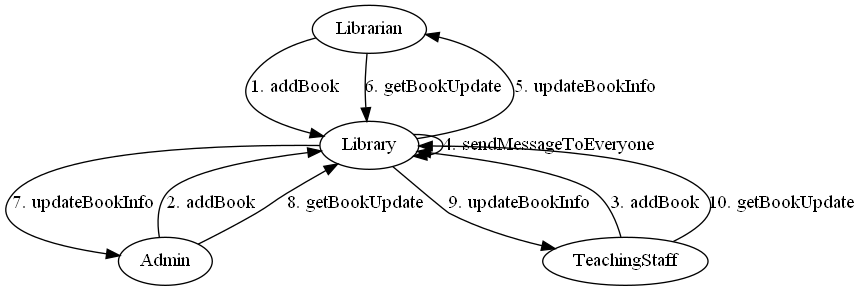
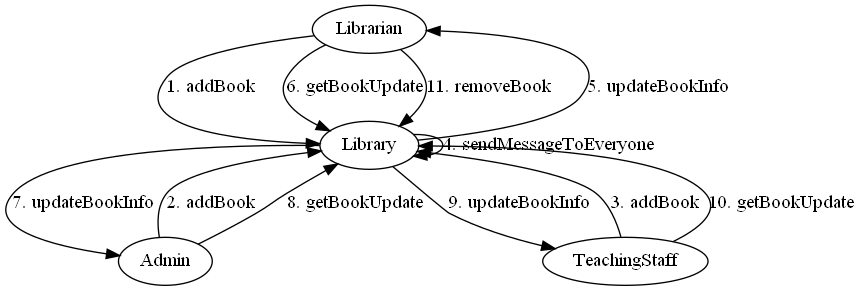
FinalImplimentation

diff --git a/src/Librarian.java b/src/Librarian.java
@@ -8,6 +8,7 @@ public class Librarian implements Books {
     public void updateBookInfo() {
         this.state = library.getBookUpdate();
     }
+    public  void removeBook() {library.removeBook(this);}
     public String getState() {
         return "Librarian: " + this.state;
     }

diff --git a/src/Library.java b/src/Library.java
@@ -1,5 +1,5 @@
 import java.util.*;
-public class Library implements StreamingUpdate {
+public class Library implements LibraryDatabase {
     private String headline;
     private ArrayList<Books> viewers = new ArrayList<Books>();
     public void addBook(Books books){

diff --git a/src/Main.java b/src/Main.java
@@ -9,5 +9,6 @@ public class Main {
         System.out.println(librarian.getState());
         System.out.println(admin.getState());
         System.out.println(teachingStaff.getBookState());
+        librarian.removeBook();
     }
 }

diff --git a/src/LibraryDatabase.java b/src/LibraryDatabase.java
@@ -1,4 +1,4 @@
-public interface StreamingUpdate {
+public interface LibraryDatabase {
     public void addBook(Books books);
     public void removeBook(Books books);
     public void sendMessageToEveryone();
